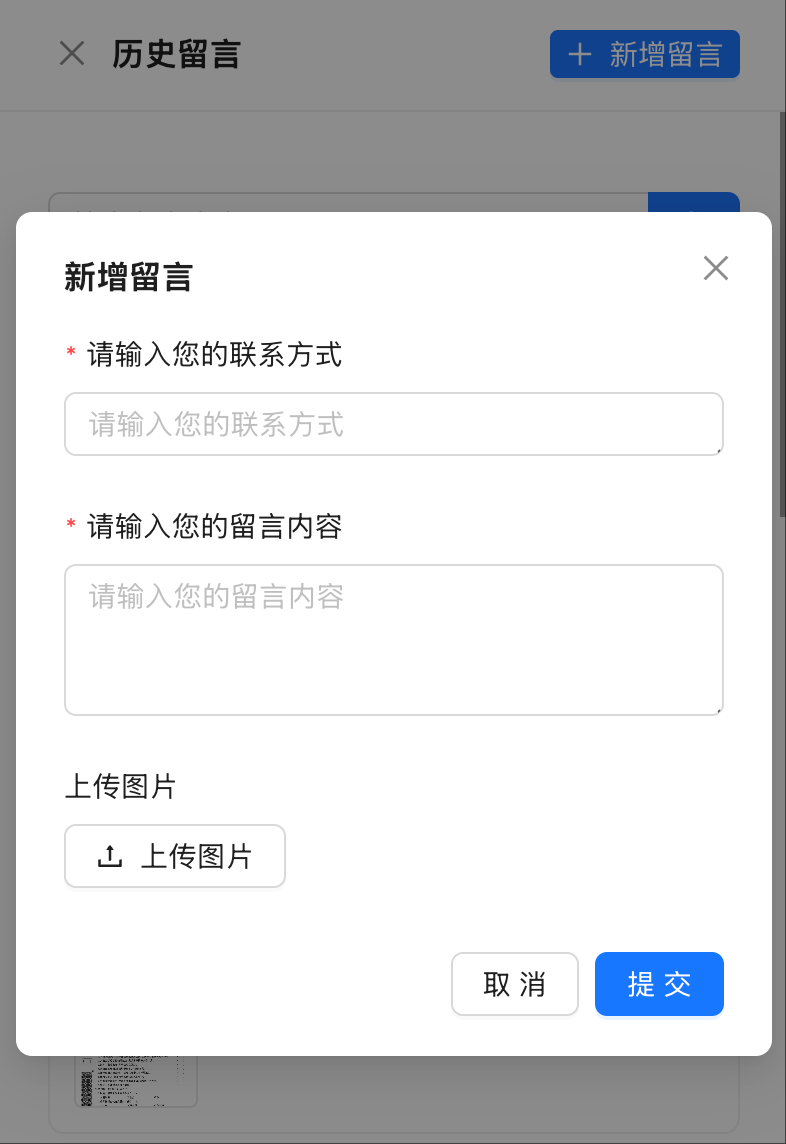
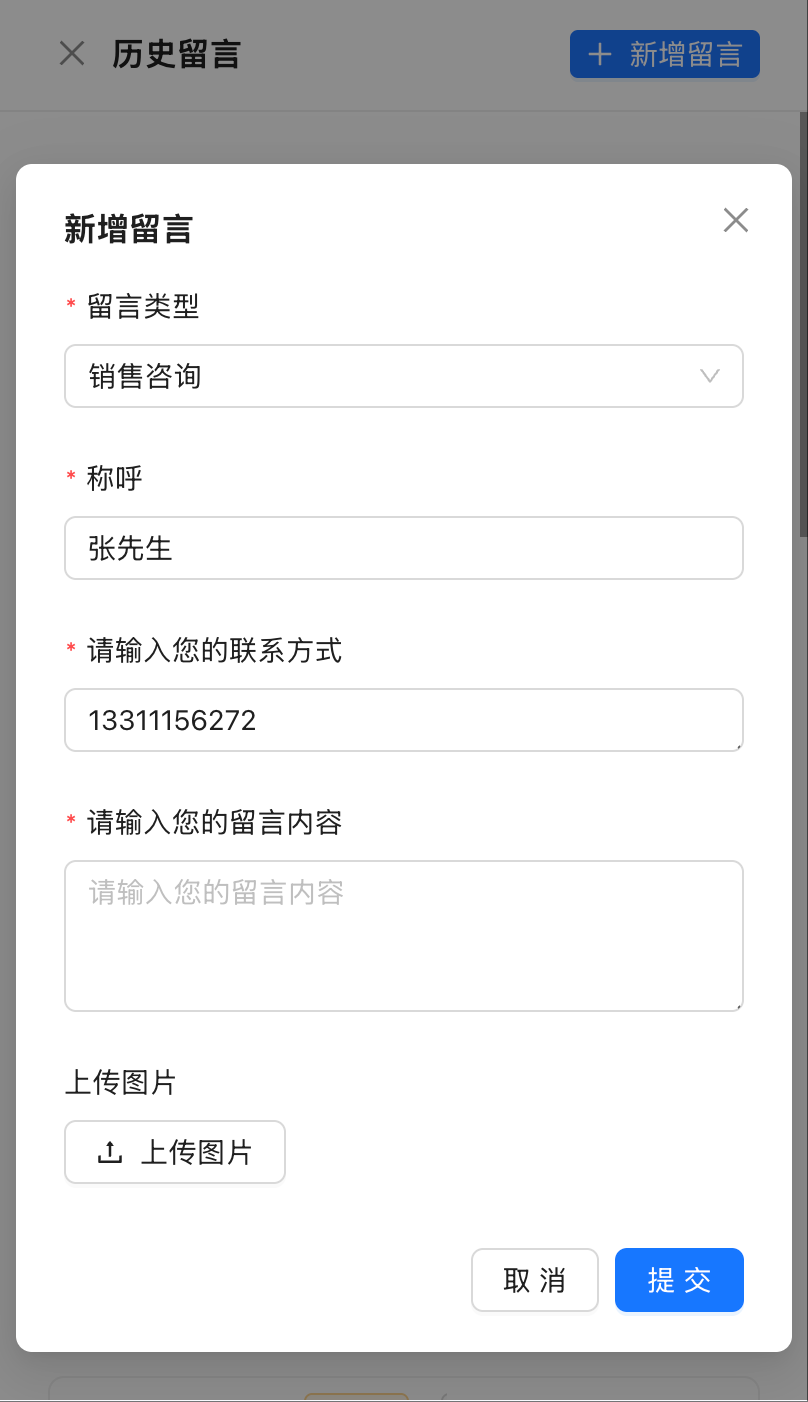
update

diff --git a/i18n/zh-CN/docusaurus-plugin-content-docs/current/development/leavemsg.md b/i18n/zh-CN/docusaurus-plugin-content-docs/current/development/leavemsg.md
@@ -9,47 +9,188 @@ sidebar_position: 26
 
 当客服不在线时，系统会自动显示留言表单，收集用户的留言信息和联系方式。通过配置 Webhook URL，可以将这些留言消息推送到多种平台，确保及时处理用户需求。
 
-### 访客端留言
+### 主要功能特性
+
+- **自动留言收集**：客服离线时自动显示留言表单
+- **多渠道通知**：支持企业微信、飞书、钉钉等多种通知方式
+- **图片留言支持**：访客可发送图片进行留言
+- **历史记录查看**：访客可查看历史留言及回复
+- **实时回复**：客服可及时回复访客留言
+
+### 使用场景
+
+- 客服下班时间或节假日
+- 客服繁忙无法及时回复
+- 需要收集用户详细需求信息
+- 跨时区客服服务
+
+## 访客端功能
+
+### 基础留言功能
 
 import leavemsgChat from '/img/develop/leavemsg/leavemsg_chat.png';
 import leavemsgChat2 from '/img/develop/leavemsg/leavemsg_chat2.png';
+
+当客服不在线时，访客会看到留言界面，可以填写：
+
+- **姓名**：访客姓名（必填）
+- **联系方式**：手机号或邮箱（必填）
+- **留言内容**：详细描述问题或需求
+- **留言类型**：选择问题类型（可选）
+
+<img src={leavemsgChat} alt="留言界面" width="360" />
+<img src={leavemsgChat2} alt="留言表单" width="360" />
+
+### 图片留言支持
+
 import leavemsgImage from '/img/develop/leavemsg/leavemsg_image.png';
+
+访客可以上传图片来更好地说明问题，支持：
+
+- 常见图片格式：JPG、PNG、GIF等
+- 文件大小限制：通常不超过2MB
+- 多图上传：可同时上传多张图片
+
+<img src={leavemsgImage} alt="图片留言" width="360" />
+
+### 历史留言查看
+
 import leavemsgHistoryIcon from '/img/develop/leavemsg/leavemsg_history_icon.png';
 import leavemsgHistory from '/img/develop/leavemsg/leavemsg_history.png';
+
+访客可以查看历史留言记录：
+
+- 点击历史记录图标查看所有留言
+- 显示留言状态（待回复、已回复、已关闭）
+- 查看客服回复内容
+- 按时间顺序排列
+
+<img src={leavemsgHistoryIcon} alt="历史记录图标" width="360" />
+<img src={leavemsgHistory} alt="历史留言列表" width="360" />
+
+### 继续新增留言
+
 import leavemsgAdd from '/img/develop/leavemsg/leavemsg_add.png';
 
-<img src={leavemsgChat} alt="Chat" width="360" />
-<img src={leavemsgChat2} alt="Chat" width="360" />
+访客可以继续添加新的留言：
 
-### 支持图片留言
+- 在历史记录页面点击"新增留言"
+- 系统会记住访客信息，无需重复填写
+- 支持关联之前的留言记录
 
-<img src={leavemsgImage} alt="Chat" width="360" />
+<img src={leavemsgAdd} alt="新增留言" width="360" />
 
-### 访客端查看历史留言及回复
+## 客服端功能
 
-<img src={leavemsgHistoryIcon} alt="Chat" width="360" />
-<img src={leavemsgHistory} alt="Chat" width="360" />
-
-### 访客端继续新增留言
-
-<img src={leavemsgAdd} alt="Chat" width="360" />
-
-### 客服端查看并回复留言
+### 留言查看与回复
 
 ![leavemsg_agent](/img/develop/leavemsg/leavemsg_agent.png)
 
-### 管理后台查看留言
+客服端功能包括：
+
+- **留言列表**：显示所有待处理的留言
+- **留言详情**：查看访客的完整留言信息
+- **快速回复**：使用预设回复模板
+- **状态管理**：标记留言为已处理、待跟进等
+- **转派功能**：将留言转给其他客服处理
+
+### 留言处理流程
+
+1. **接收通知**：系统自动推送新留言通知
+2. **查看详情**：点击查看访客留言内容
+3. **回复处理**：根据留言内容进行回复
+4. **状态更新**：更新留言处理状态
+5. **跟进记录**：记录处理过程和结果
+
+## 管理后台功能
+
+### 留言管理
 
 ![leavemsg_admin](/img/develop/leavemsg/leavemsg_admin.png)
 
-### 管理后台回复留言
+管理后台提供完整的留言管理功能：
+
+- **留言统计**：查看留言数量、处理率等数据
+- **分类管理**：按类型、状态、时间等分类查看
+- **批量操作**：批量处理、删除、导出留言
+- **权限控制**：设置不同角色的留言处理权限
+
+### 留言回复
 
 ![leavemsg_reply](/img/develop/leavemsg/leavemsg_reply.png)
 
-## 留言通知
+管理员可以：
 
-### [企业微信](../channel/wechat_work_group_robot.md)
+- **统一回复**：为所有留言设置统一回复
+- **模板管理**：创建和管理回复模板
+- **质量检查**：审核客服回复质量
+- **数据导出**：导出留言数据用于分析
 
-### [飞书](../channel/feishu.md)
+## 留言通知配置
 
-### [钉钉](../channel/dingtalk.md)
+### 企业微信通知
+
+通过配置企业微信群机器人，实现留言自动通知：
+
+- 支持文本、图片、文件等多种消息类型
+- 可设置关键词过滤和频率限制
+- 支持@指定成员进行提醒
+
+详细配置请参考：[企业微信配置](../channel/wechat_work_group_robot.md)
+
+### 飞书通知
+
+配置飞书机器人接收留言通知：
+
+- 支持富文本消息格式
+- 可设置消息卡片样式
+- 支持@用户和群组通知
+
+详细配置请参考：[飞书配置](../channel/feishu.md)
+
+### 钉钉通知
+
+配置钉钉机器人实现留言推送：
+
+- 支持文本、链接、Markdown等格式
+- 可设置安全设置和关键词
+- 支持@指定人员
+
+详细配置请参考：[钉钉配置](../channel/dingtalk.md)
+
+## 最佳实践
+
+### 留言表单设计
+
+1. **简化必填项**：只保留必要的联系信息
+2. **分类选项**：提供问题类型选择，便于分类处理
+3. **引导文案**：提供清晰的填写说明和示例
+4. **隐私保护**：明确说明信息使用目的
+
+### 回复策略
+
+1. **及时回复**：在24小时内回复所有留言
+2. **个性化回复**：避免使用过于模板化的回复
+3. **跟进机制**：对复杂问题建立跟进流程
+4. **满意度调查**：定期收集访客对回复的满意度
+
+### 数据分析
+
+1. **留言趋势**：分析留言数量和类型变化
+2. **处理效率**：监控平均处理时间和满意度
+3. **热点问题**：识别常见问题，优化服务流程
+4. **客服绩效**：评估客服处理留言的效率和质量
+
+## 常见问题
+
+**Q: 如何设置留言自动通知？**
+A: 在管理后台配置Webhook URL，选择对应的通知平台（企业微信、飞书、钉钉等），系统会在收到新留言时自动推送通知。
+
+**Q: 访客可以删除自己的留言吗？**
+A: 目前访客无法删除已发送的留言，如需删除请联系客服或管理员。
+
+**Q: 留言有保存期限吗？**
+A: 留言数据会永久保存，管理员可以在后台设置自动归档规则。
+
+**Q: 支持多语言留言吗？**
+A: 是的，系统支持多语言界面，访客可以使用不同语言进行留言。

diff --git a/i18n/zh-CN/docusaurus-plugin-content-docs/current/development/order_select.md b/i18n/zh-CN/docusaurus-plugin-content-docs/current/development/order_select.md
@@ -1,6 +1,85 @@
 ---
-sidebar_label: 订单选择
+sidebar_label: 订单对接
 sidebar_position: 36
 ---
 
-# 订单选择
+# 订单系统对接-开发中
+
+## 概述
+
+微语系统支持对接第三方订单系统，比如电商平台的订单系统。通过配置Webhook URL，可以获取第三方系统订单状态，让客服在对话中快速查看和选择相关订单，提升服务效率。
+
+### 主要功能特性
+
+- **订单系统集成**：支持主流电商平台和自建订单系统
+- **实时订单查询**：通过API实时获取订单状态
+- **智能订单推荐**：根据对话内容智能推荐相关订单
+- **订单详情展示**：显示订单完整信息，包括商品、价格、状态等
+- **多端支持**：移动端和PC端均可使用
+
+### 使用场景
+
+- 电商客服查询订单状态
+- 售后服务处理订单问题
+- 订单修改和退款处理
+- 客户咨询订单相关事宜
+- 销售团队跟进订单进度
+
+## 系统集成
+
+### 支持的订单系统
+
+- **电商平台**：淘宝、天猫、京东、拼多多、亚马逊等
+- **自建系统**：ERP系统、CRM系统、订单管理系统
+- **第三方平台**：Shopify、WooCommerce、Magento等
+- **API接口**：RESTful API、GraphQL等
+
+### 集成方式
+
+1. **API集成**：通过RESTful API获取订单数据
+2. **Webhook推送**：订单状态变更时主动推送
+3. **数据库同步**：定时同步订单数据库
+4. **文件导入**：通过CSV、Excel等文件导入订单
+
+## 功能展示
+
+### 移动端订单选择
+
+import orderSelectIcon from '/img/develop/order/order_select_icon.png';
+
+在移动端，客服可以通过以下方式选择订单：
+
+- **搜索功能**：输入订单号、商品名称、客户信息等
+- **筛选条件**：按时间、状态、金额等条件筛选
+- **快速选择**：系统智能推荐相关订单
+- **订单预览**：查看订单基本信息
+
+<img src={orderSelectIcon} alt="移动端订单选择" width="360" />
+
+### PC端订单选择
+
+![order_select_icon_pc](/img/develop/order/order_select_icon_pc.png)
+
+PC端提供更丰富的订单管理功能：
+
+- **列表视图**：以表格形式展示订单列表
+- **详情面板**：侧边栏显示订单详细信息
+- **批量操作**：支持批量处理多个订单
+- **高级搜索**：支持多条件组合搜索
+
+### 订单选择列表
+
+![order_select_list](/img/develop/order/order_select_list.png)
+
+订单列表显示以下信息：
+
+- **订单号**：唯一标识符
+- **下单时间**：订单创建时间
+- **客户信息**：姓名、联系方式
+- **商品信息**：商品名称、数量、价格
+- **订单状态**：待付款、已付款、已发货、已完成等
+- **操作按钮**：查看详情、处理订单等
+
+## 配置指南
+
+TODO

diff --git a/i18n/zh-CN/docusaurus-plugin-content-docs/current/payment.md b/i18n/zh-CN/docusaurus-plugin-content-docs/current/payment.md
@@ -79,6 +79,9 @@ sidebar_position: 11
 | [自动回复](./development/autoreply.md) | ❌ | ✅ | ✅ | ✅ | ✅ |
 | [黑名单](./development/black.md) | ❌ | ✅ | ✅ | ✅ | ✅ |
 | [消息翻译](./development/translate.md) | ❌ | ✅ | ✅ | ✅ | ✅ |
+| [留言处理](./development/leavemsg.md) | ❌ | ✅ | ✅ | ✅ | ✅ |
+| [订单对接](./development/order_select.md) | ❌ | ✅ | ✅ | ✅ | ✅ |
+| [消息翻译](./development/translate.md) | ❌ | ✅ | ✅ | ✅ | ✅ |
 | [集群部署](./deploy/cluster.md) | ❌ | ✅ | ✅ | ✅ | ✅ |
 | 官方技术支持 | ❌ | ✅ | ✅ | ✅ | ✅ |
 <!-- | [文本转语音TTS](./development/tts.md) | ❌ | ✅ | ✅ | ✅ | ✅ | -->
